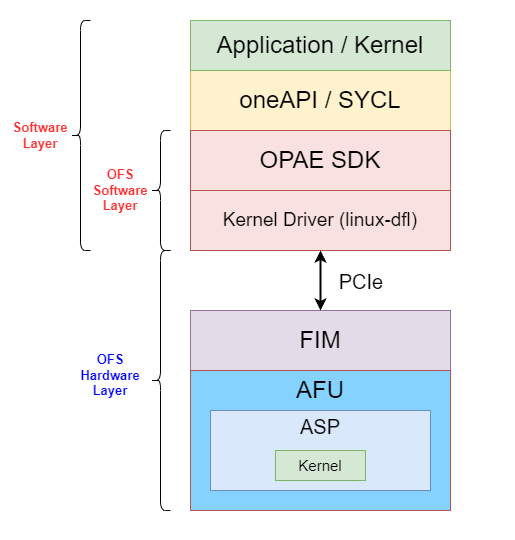
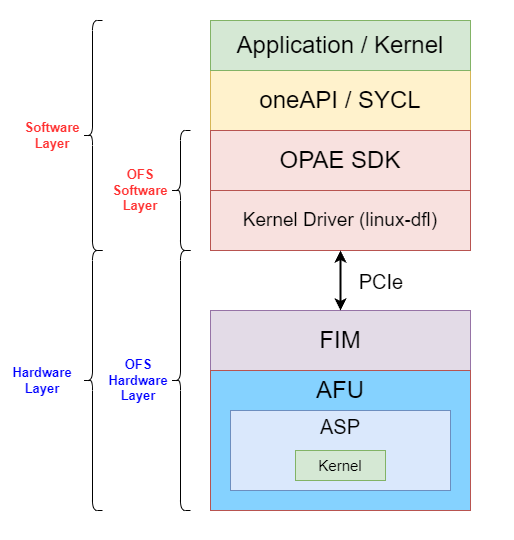
Update doc

diff --git a/doc/arch_diagram.md b/doc/arch_diagram.md
@@ -1,37 +1,62 @@
-# Architectural Diagram
+# Architectural Diagrams
 
-* ASP variant ofs_n6001_iopipes<sup>[[5]](references.md#ref_aspv_pipes)</sup>
+As follows, the architectural diagrams of `ofs_n6001_iopipes`<sup>[[1]](references.md#ref_aspv_pipes)</sup> and `ofs_n6001_usm_iopipes`<sup>[[2]](references.md#ref_aspv_usm_pipes)</sup> ASP variants. The diagrams are divided into two categories:
+* `Base Architectural Diagram`: without all macros defined. 
+* `Architectural Diagram`: with all macros defined.
+
+## ofs_n6001_iopipes ASP Variant <a name="ch_iopipes_arch"></a>
+* Base Architectural Diagram without `INCLUDE_UDP_OFFLOAD_ENGINE` and `INCLUDE_USM_SUPPORT macros`
 <p align="center">
   <img src="img/pipes_base_archd.png" width="1000">
 </p>
 
-* ASP variant ofs_n6001_iopipes<sup>[[5]](references.md#ref_aspv_pipes)</sup> with INCLUDE_UDP_OFFLOAD_ENGINE and INCLUDE_USM_SUPPORT macros
+* Architectural Diagram
 <p align="center">
   <img src="img/pipes_archd.png" width="1000">
 </p>
 
-* ASP variant ofs_n6001_usm_iopipes<sup>[[6]](references.md#ref_aspv_usm_pipes)</sup>
+### Modules Description <a name="ch_modules_iopipes"></a>
+* `mem_if_vpt`: Translates virtual addresses into physical addresses (Virtual to Physical Translation - VTP). It is located on the host memory datapath.
+* `bsp_logic`
+  * `dma_top`: DMA module provides a controller to execute transfers from host to DDR on the board and vice versa.
+  * `board`: Wraps the interfaces, especially DDR memory bank on-baord.
+  * `bsp_host_mem_if_mux`: Inserts special transactions on the AVMM bus (Avalon Memory-Mapped Interface), which are evaluated as interrupt by the host (linux drivers) when kernel_irq signal is high.
+  * `avmm_wr_ack_gen`: Generates ack in order to guarantee the right behaviour AVMM bus.
+* `kernel_wrapper`:
+  * `avmm_pipeline_inst`: AVMM Pipeline bridge from the kernel to board. 
+  * `kernel_cra_avalon_mm_bridge_s10`: AVMM Pipeline bridge from board to the kernel.
+  * `kernel_mem_acl_avalon_mm_bridge_s10`: AVMM Pipeline bridge from kernel_system to host.
+  * `kernel_system`: Hardware generated from SYCL, it has four interfaces:
+    * output interrupt line (kernel_irq).
+    * AVMM slave CSR interface used to write parameters and commands (e.g. start, busy, pending interrupt, etc).
+    * read/write AVMM master interface for each DDR memory bank.
+    * read/write AVMM master interface for host memory (Shared/Unified Virtual Memory SVM/USM).
+* `udp_offload_engine`: Allow transmitting UDP/IP packets over HSSI.
+
+
+## ofs_n6001_usm_iopipes ASP Variant <a name="ch_usmiopipes_arch"></a>
+* Base Architectural Diagram without `INCLUDE_UDP_OFFLOAD_ENGINE macro`
 <p align="center">
   <img src="img/usm_pipes_base_archd.png" width="1000">
 </p>
 
-* ASP variant ofs_n6001_usm_iopipes<sup>[[6]](references.md#ref_aspv_usm_pipes)</sup> with INCLUDE_UDP_OFFLOAD_ENGINE macro
+* Architectural Diagram
 <p align="center">
   <img src="img/usm_pipes_archd.png" width="1000">
 </p>
 
 
-## Modules Description <a name="ch_modules"></a>
-* `mem_if_vpt/host_mem_if_vtp`: Translates virtual addresses into physical addresses (Virtual to Physical Translation - VTP). It is located on the host memory datapath.
+### Modules Description <a name="ch_modules_usmiopipes"></a>
+* `host_mem_if_vtp`: Translates virtual addresses into physical addresses (Virtual to Physical Translation - VTP). It is located on the host memory datapath.
 * `bsp_logic`
   * `dma_top`: DMA module provides a controller to execute transfers from host to DDR on the board and vice versa.
   * `board`: Wraps the interfaces, especially DDR memory bank on-baord.
-  * `bsp_host_mem_if_mux`: Inserts special transactions on the AVMM bus (Avalon Memory-Mapped Interface), which are evaluated as interrupt by the host (linux drivers) when *kernel_irq* signal is high.
-  * `avmm_wr_ack_gen`: Generates ack in order to guarantee the AVMM bus right behaviour.
+  * `bsp_host_mem_if_mux`: Inserts special transactions on the `AVMM bus (Avalon Memory-Mapped Interface)`, which are evaluated as interrupt by the host (linux drivers) when kernel_irq signal is high.
+  * `avmm_wr_ack_gen`: Generates ack in order to guarantee the right behaviour of AVMM bus.
 * `kernel_wrapper`:
-  * `avmm_pipeline_inst`: Pipeline bridge from the kernel to board. 
-  * `kernel_cra_avalon_mm_bridge_s10`: Pipeline bridge from board to the kernel.
-  * `kernel_mem_acl_avalon_mm_bridge_s10`: Pipeline bridge from kernel to host_mem_if_vtp.
+  * `avmm_pipeline_inst`: AVMM Pipeline Bridge from the kernel to board. 
+  * `kernel_cra_avalon_mm_bridge_s10`: AVMM Pipeline Bridge from board to the kernel.
+  * `kernel_mem_acl_avalon_mm_bridge_s10`: AVMM Pipeline bridge from kernel_system to host_mem_if_vtp.
   * `kernel_system`: Hardware generated from SYCL, it has four interfaces:
     * output interrupt line (kernel_irq).
     * AVMM slave CSR interface used to write parameters and commands (e.g. start, busy, pending interrupt, etc).
@@ -40,10 +65,10 @@
   * `usm_burstcnt_buffer/usm_avmm_buffer`: Single-clock FIFO functions used for data buffering.
 * `udp_offload_engine`: Allow transmitting UDP/IP packets over HSSI.
 * `ofs_plat_avalon_mem_if_to_rdwr_if`: Convert kernel_svm AVMM interface into host_mem_if.
-* `ofs_plat_avalon_mem_if_async_shim`: Clock crossing bridge for the Avalon memory interface.
+* `ofs_plat_avalon_mem_if_async_shim`: AVMM Clock Crossing Bridge for the Avalon memory interface.
 
-## Standars <a name="ch_standards"></a>
-* `Master/Host/Source`: It has read, write, writedata and address signals as output, to specify slave's operations.
-* `Slave/Agent/Sink`: It has waitrequest, readdatavalid, readdata, writeresponsevalid signals as output.
-* `to_sink/to_slave`: SystemVerilog mopdport identifier, used to identify the connection from source toward sink (the current module is the source).
-* `to_source/to_master`: SystemVerilog mopdport identifier, used to identify the connection from sink toward source (the current module is the sink).
+
+## Terminology <a name="ch_term"></a>
+* `Avalon Memory-Mapped Interface`<sup>[[8]](references.md#ref_avmm)</sup>: Implement read and write interfaces for Host (master) and Agent (slave) components.
+* `Avalon-MM Pipeline Bridge`<sup>[[9]](references.md#ref_avmm_pipebridge)</sup>: accepts commands on its slave port and propagates the commands to its master port, providing parameters to turn on pipelining for command and response signals.
+* `Avalon‑MM Clock Crossing Bridge`<sup>[[10]](references.md#ref_avmm_clockbridge)</sup>: transfers commands and responses between different clock domains.

diff --git a/doc/references.md b/doc/references.md
@@ -1,10 +1,14 @@
 # References
-1. <a id="ref_oneapi_asp_ref"></a> [oneAPI Accelerator Support Package(ASP) Reference Manual: Open FPGA Stack](https://ofs.github.io/ofs-2023.2/hw/common/reference_manual/oneapi_asp/oneapi_asp_ref_mnl/#14-introduction-to-oneapi-on-open-fpga-stackofs)
-1. <a id="ref_bsp"></a> [FPGA BSPs and Boards](https://www.intel.com/content/www/us/en/docs/oneapi/programming-guide/2023-0/fpga-bsps-and-boards.html)
-1. <a id="ref_pipes_sample"></a> [oneAPI Pipes Samples](https://github.com/oneapi-src/oneAPI-samples/tree/2024.0.0/DirectProgramming/C%2B%2BSYCL_FPGA/Tutorials/Features/pipes)
-1. <a id="ref_explicit_sample"></a> [oneAPI Explicit Data Movement Sample](https://github.com/oneapi-src/oneAPI-samples/tree/ccd57a1ff0245bf7b09c2a0b84fa35bce9412d88/DirectProgramming/C%2B%2BSYCL_FPGA/Tutorials/DesignPatterns/explicit_data_movement)
 1. <a id="ref_aspv_pipes"></a> [oneAPI-ASP variant ofs_n6001_iopipes](https://github.com/OFS/oneapi-asp/tree/ofs-2023.2-1/n6001/hardware/ofs_n6001_iopipes)
 1. <a id="ref_aspv_usm_pipes"></a> [oneAPI-ASP variant ofs_n6001_usm_iopipes](https://github.com/OFS/oneapi-asp/tree/ofs-2023.2-1/n6001/hardware/ofs_n6001_usm_iopipes)
+1. <a id="ref_pipes_sample"></a> [oneAPI Pipes Samples](https://github.com/oneapi-src/oneAPI-samples/tree/2024.0.0/DirectProgramming/C%2B%2BSYCL_FPGA/Tutorials/Features/pipes)
+1. <a id="ref_explicit_sample"></a> [oneAPI Explicit Data Movement Sample](https://github.com/oneapi-src/oneAPI-samples/tree/ccd57a1ff0245bf7b09c2a0b84fa35bce9412d88/DirectProgramming/C%2B%2BSYCL_FPGA/Tutorials/DesignPatterns/explicit_data_movement)
+1. <a id="ref_oneapi_asp_ref"></a> [oneAPI Accelerator Support Package(ASP) Reference Manual: Open FPGA Stack](https://ofs.github.io/ofs-2023.2/hw/common/reference_manual/oneapi_asp/oneapi_asp_ref_mnl/)
+1. <a id="ref_ofs"></a> [Open FPGA Stack Overview](https://ofs.github.io/ofs-2023.3-2/)
+1. <a id="ref_bsp"></a> [FPGA BSPs and Boards](https://www.intel.com/content/www/us/en/docs/oneapi/programming-guide/2023-0/fpga-bsps-and-boards.html)
+1. <a id="ref_avmm"></a> [Introduction to Avalon Memory-Mapped Interfaces](https://www.intel.com/content/www/us/en/docs/programmable/683091/20-1/introduction-to-memory-mapped-interfaces.html)
+1. <a id="ref_avmm_pipebridge"></a> [Avalon-MM Pipeline Bridge](https://www.intel.com/content/www/us/en/docs/programmable/683364/18-1/mm-pipeline-bridge.html)
+1. <a id="ref_avmm_clockbridge"></a> [Avalon-MM Clock Crossing Bridge](https://www.intel.com/content/www/us/en/docs/programmable/683364/18-1/mm-clock-crossing-bridge.html)
 1. <a id="ref_intel_install"></a> [Intel oneAPI Toolkits and Components Installation Guide for Linux* OS with Command LIne](https://www.intel.com/content/www/us/en/docs/oneapi/installation-guide-linux/2023-0/install-with-command-line.html)
 1. <a id="ref_oneapi_asp_get"></a> [oneAPI Accelerator Support Package (ASP): Getting Started User Guide](https://ofs.github.io/ofs-2023.2/hw/common/user_guides/oneapi_asp/ug_oneapi_asp/)
 
@@ -26,7 +30,6 @@
 * [oneAPI Matrix Multiply Sample](https://github.com/oneapi-src/oneAPI-samples/blob/ccd57a1ff0245bf7b09c2a0b84fa35bce9412d88/DirectProgramming/C%2B%2BSYCL_FPGA/ReferenceDesigns/matmul)
 * [oneAPI kernel_args_restrict Sample](https://github.com/oneapi-src/oneAPI-samples/tree/2024.0.0/DirectProgramming/C++SYCL_FPGA/Tutorials/Features/kernel_args_restrict)
 * [OneAPI-ASP n6001](https://github.com/OFS/oneapi-asp/tree/ofs-2023.2-1/n6001)
-* [Avalon-MM Pipeline Bridge](https://www.intel.com/content/www/us/en/docs/programmable/683364/18-1/mm-pipeline-bridge.html)
 * [FIFO Intel FPGA IP User Guide](https://www.intel.com/content/www/us/en/docs/programmable/683522/18-0/user-guide.html)
 * [afu.sv](https://github.com/OFS/oneapi-asp/blob/ofs-2023.2-1/n6001/hardware/ofs_n6001_iopipes/build/rtl/afu.sv)
 * [ofs_plat_avalon_mem_if.sv](https://github.com/OFS/ofs-platform-afu-bbb/blob/ofs-2023.2-1/plat_if_develop/ofs_plat_if/src/rtl/base_ifcs/avalon/ofs_plat_avalon_mem_if.sv)

diff --git a/doc/ofs.md b/doc/ofs.md
@@ -1,10 +1,14 @@
 # Overall Stack 
 The overall `stack` is divided into:
-* `Software Layer` which containts
-  * The `software application`.
-  * The open standard `oneAPI`.
-  * The `Open FPGA Stack Software Components`.
-* `Hardware Layer` which containts the `Open FPGA Stack Hardware Components`.
+* `Software Layer`:
+  * `Software application`.
+  * `oneAPI`: A programming model that provides portability and performance across `heterogeneous architectures`.
+  * `Open Programmable Acceleration Engine (OPAE) SDK`<sup>[[5]](references.md#ref_oneapi_asp_ref)</sup>: Set of libraries and tools to facilitate the development of software applications and accelerators.
+  * `Kernel Driver`: Linux Kernerl Driver.
+* `Hardware Layer`:
+  * `PCIe`.
+  * `FPGA Interface Manager (FIM)`<sup>[[5]](references.md#ref_oneapi_asp_ref)</sup>: Provides standard interfaces to host and AFU.
+  * `Accelerator Functional Unit (AFU)`.
 
 <p align="center">
   <img src="img/stack_sw_hw.png" width="500">
@@ -12,19 +16,18 @@ The overall `stack` is divided into:
 
 
 # Open FPGA Stack <a name="ch_ofs"></a>
-The `Open FPGA Stack (OFS)`<sup>[[1]](references.md#ref_oneapi_asp_ref)</sup> is a set of `hardware platform components` and `open source software`, ensuring a standard and scalable model for AFU and software developers to optimize and reuse their designs.
-
+The `Open FPGA Stack (OFS)`<sup>[[6]](references.md#ref_ofs)</sup> is a set of  `open-source hardware and software components` used to create a custom FPGA platform.
 
 ## Accelerator Functional Unit <a name="ch_afu"></a>
-The `Accelerator Functional Unit (AFU)`<sup>[[1]](references.md#ref_oneapi_asp_ref)</sup>  is a hardware accelerator implemented in FPGA logic which offloads a computational operation for an application from the CPU to improve performance. 
+The `Accelerator Functional Unit (AFU)`<sup>[[5]](references.md#ref_oneapi_asp_ref)</sup> is a hardware accelerator implemented in FPGA logic which offloads a computational operation for an application from the CPU to improve performance. 
 
-### Accelerator Support Package <a name="ch_asp"></a>
-The `Accelerator Support Package (ASP)`<sup>[[1]](references.md#ref_oneapi_asp_ref)</sup>  is a set of hardware and software components which guarantees the comunication between `oneAPI kernel` (converted into a hardware circuit by the compiler) and the `oneAPI runtime` and `other OFS hardware/software components`. The ASP is equivalent to a `Board Support Package (BSP)`<sup>[[2]](references.md#ref_bsp)</sup>, which is a set of software layers and an FPGA hardware design used to target the FPGA through the Intel oneAPI DPC++/C++ Compiler.
+### oneAPI Accelerator Support Package <a name="ch_asp"></a>
+The `oneAPI Accelerator Support Package (ASP)`<sup>[[5]](references.md#ref_oneapi_asp_ref)</sup>  is a set of hardware and software components which guarantees the comunication between `oneAPI kernel` (converted into a hardware circuit by the compiler) and the `oneAPI runtime` and `other OFS hardware/software components`. 
+
+The ASP is equivalent to a `Board Support Package (BSP)`<sup>[[7]](references.md#ref_bsp)</sup>, which is a set of software layers and an FPGA hardware design used to target the FPGA through the Intel oneAPI DPC++/C++ Compiler.
 
 ASP is made up of:
 * `RTL Components`: Represent interface logic (host to kernel interface, etc..) to handle kernel control signals and perform Direct Memory Access (DMA).
 * `XML Files`: To describe hardware interfaces and compilation environment.
 * `Scripts`: To control compile flow.
 * `Utilities`: Used to setup and diagnose the board.
-
-Both ASP hardware components and kernels are placend in the `AFU region`. 

diff --git a/README.md b/README.md
@@ -1,9 +1,14 @@
-# ASP Architecture Analysis and Comparison between two data movement mechanisms between SYCL kernels on Intel FPGAs
-The project aims to analysing the ASP architecture and evaluating the implementation of `two data movement mechanisms`:
-* `Pipe`
-* `Unified Shared Memory (USM) device allocation`
+# ASP Variants Architectures Analysis and Performance Comparison of Two Data Movement Mechanisms on Intel FPGAs
+The project aims to:
+* Analyse the architectures of two `oneAPI Accelerator Support Package (ASP) variants` and the data movement on them:
+    * `ofs_n6001_iopipes`<sup>[[1]](references.md#ref_aspv_pipes)</sup>: ASP variant that supports `I/O Pipes abstraction`.
+    * `ofs_n6001_usm_iopipes`<sup>[[2]](references.md#ref_aspv_usm_pipes)</sup>: ASP variant that supports both I/O Pipes abstraction and `Unified Shared Memory (USM)`.
+* Compare the performance of `two data movement mechanisms`:
+    * `Pipe`<sup>[[3]](references.md#ref_pipes_sample)</sup>
+    * `USM`<sup>[[4]](references.md#ref_explicit_sample)</sup>
 
-used to transfer data between `SYCL kernels on Intel FPGAs`, targeting the `oneAPI Accelerator Support Package (ASP)`.
+    used to transfer data between `SYCL kernels on Intel FPGAs`.
+
 
 ## Repository Structure 
 The project has the following strcuture:
@@ -14,23 +19,21 @@ The project has the following strcuture:
 1. [Overall Stack ](doc/ofs.md)
     * [Open FPGA Stack](doc/ofs.md#ch_ofs)
     * [Accelerator Functional Unit](doc/ofs.md#ch_afu)
-        * [Accelerator Support Package](doc/ofs.md#ch_asp)
-1. [Data movement mechanisms](doc/samples.md)    
-    * [Pipes](doc/samples.md#ch_pipes)
+        * [oneAPI Accelerator Support Package](doc/ofs.md#ch_asp)
+1. [Data Movement Mechanisms](doc/samples.md)    
+    * [Pipes Abstraction](doc/samples.md#ch_pipes)
         * [Pipes Sample](doc/samples.md#ch_pipes_s)
     * [Unified Shared Memory](doc/samples.md#ch_usm)
         * [Memory Channel Sample](doc/samples.md#ch_usm_s)
-1. [Architectural Diagram](doc/arch_diagram.md)
-    * [Modules Description](doc/arch_diagram.md#ch_modules)
-    * [Standards](doc/arch_diagram.md#ch_standards)
+1. [Architectural Diagrams](doc/arch_diagram.md)
+    * [ofs_n6001_iopipes ASP Variant](doc/arch_diagram.md#ch_iopipes_arch)
+        * [Modules Description](doc/arch_diagram.md#ch_modules_iopipes)
+    * [ofs_n6001_usm_iopipes ASP Variant](doc/arch_diagram.md#ch_usmiopipes_arch)
+        * [Modules Description](doc/arch_diagram.md#ch_modules_usmiopipes)
+    * [Terminology](doc/arch_diagram.md#ch_term)
 1. [Environment Setup](doc/setup.md)
     * [Tools](doc/setup.md#ch_tools)
     * [Manage oneAPI Samples](doc/setup.md#ch_samples)
 1. [Performance Analysis](doc/analysis.md)
 1. [References](doc/references.md)
     * [Further References](doc/references.md#fref)
-
-
-# Cose da fare
-* Aggionare documentazione/wiki
-* Aggiustare diagramma arhcitetturale

diff --git a/doc/setup.md b/doc/setup.md
@@ -8,12 +8,12 @@ Virtual machine running `Ubuntu 22.04 LTS` :
 ## Tools <a name="ch_tools"></a>
 ### Intel oneAPI BAse Toolkit 2024.0.1
 * [Download](https://registrationcenter-download.intel.com/akdlm/IRC_NAS/163da6e4-56eb-4948-aba3-debcec61c064/l_BaseKit_p_2024.0.1.46.sh)
-* Install<sup>[[7]](references.md#ref_intel_install)</sup>:
+* Install<sup>[[11]](references.md#ref_intel_install)</sup>:
 ```bash
 sudo sh ./l_BaseKit_p_2024.0.1.46.sh -a --silent --eula accept
 ```
 
-### OneAPI ASP OFS 2023.2-1
+### oneAPI ASP OFS 2023.2-1
 ```bash
 git clone --branch ofs-2023.2-1 https://github.com/OFS/oneapi-asp.git
 ```
@@ -32,7 +32,7 @@ sudo apt install cmake
 ```
 
 ## Manage oneAPI Samples <a name="ch_samples"></a>
-* Clone samples repository<sup>[[8]](references.md#ref_oneapi_asp_get)</sup>:
+* Clone samples repository<sup>[[12]](references.md#ref_oneapi_asp_get)</sup>:
 ```bash
 git clone --branch 2024.0.0 https://github.com/oneapi-src/oneAPI-samples.git
 ```

diff --git a/doc/samples.md b/doc/samples.md
@@ -1,11 +1,11 @@
-# Data movement mechanisms
-In order to compare the two `data movement mechanisms`, were usaed to two different samples:
-* `Pipes Sample` wich implemets the `pipes abstraction`.
-* `Memory Channel Sample` wich implemets the `unified shared memory abstraction`.
+# Data Movement Mechanisms
+In order to compare the two `data movement mechanisms`, were used to two different samples:
+* `Pipes Sample` wich implemets the `Pipes abstraction`.
+* `Memory Channel Sample` wich implemets the `Unified Shared Memory`.
 
 
 
-## Pipes <a name="ch_pipes"></a>
+## Pipes Abstraction <a name="ch_pipes"></a>
 A `pipe`<sup>[[3]](references.md#ref_pipes_sample)</sup> is an `unidirectional FIFO data structure` and allows comunication between two `endpoints`, an endpoint can be a kernel or an external I/O on the FPGA. There are three types of pipes:
 * Kernel-Kernel
 * Kernel-I/O

diff --git a/impl/README.md b/impl/README.md
@@ -1,4 +1,4 @@
-How to run the python script:
+# How to run
 1. Set sample name and indipendent factors in `test_list.csv`.
 1. Set configuration variables in `oneapi_test_config.py`. 
 1. Set environment variables
